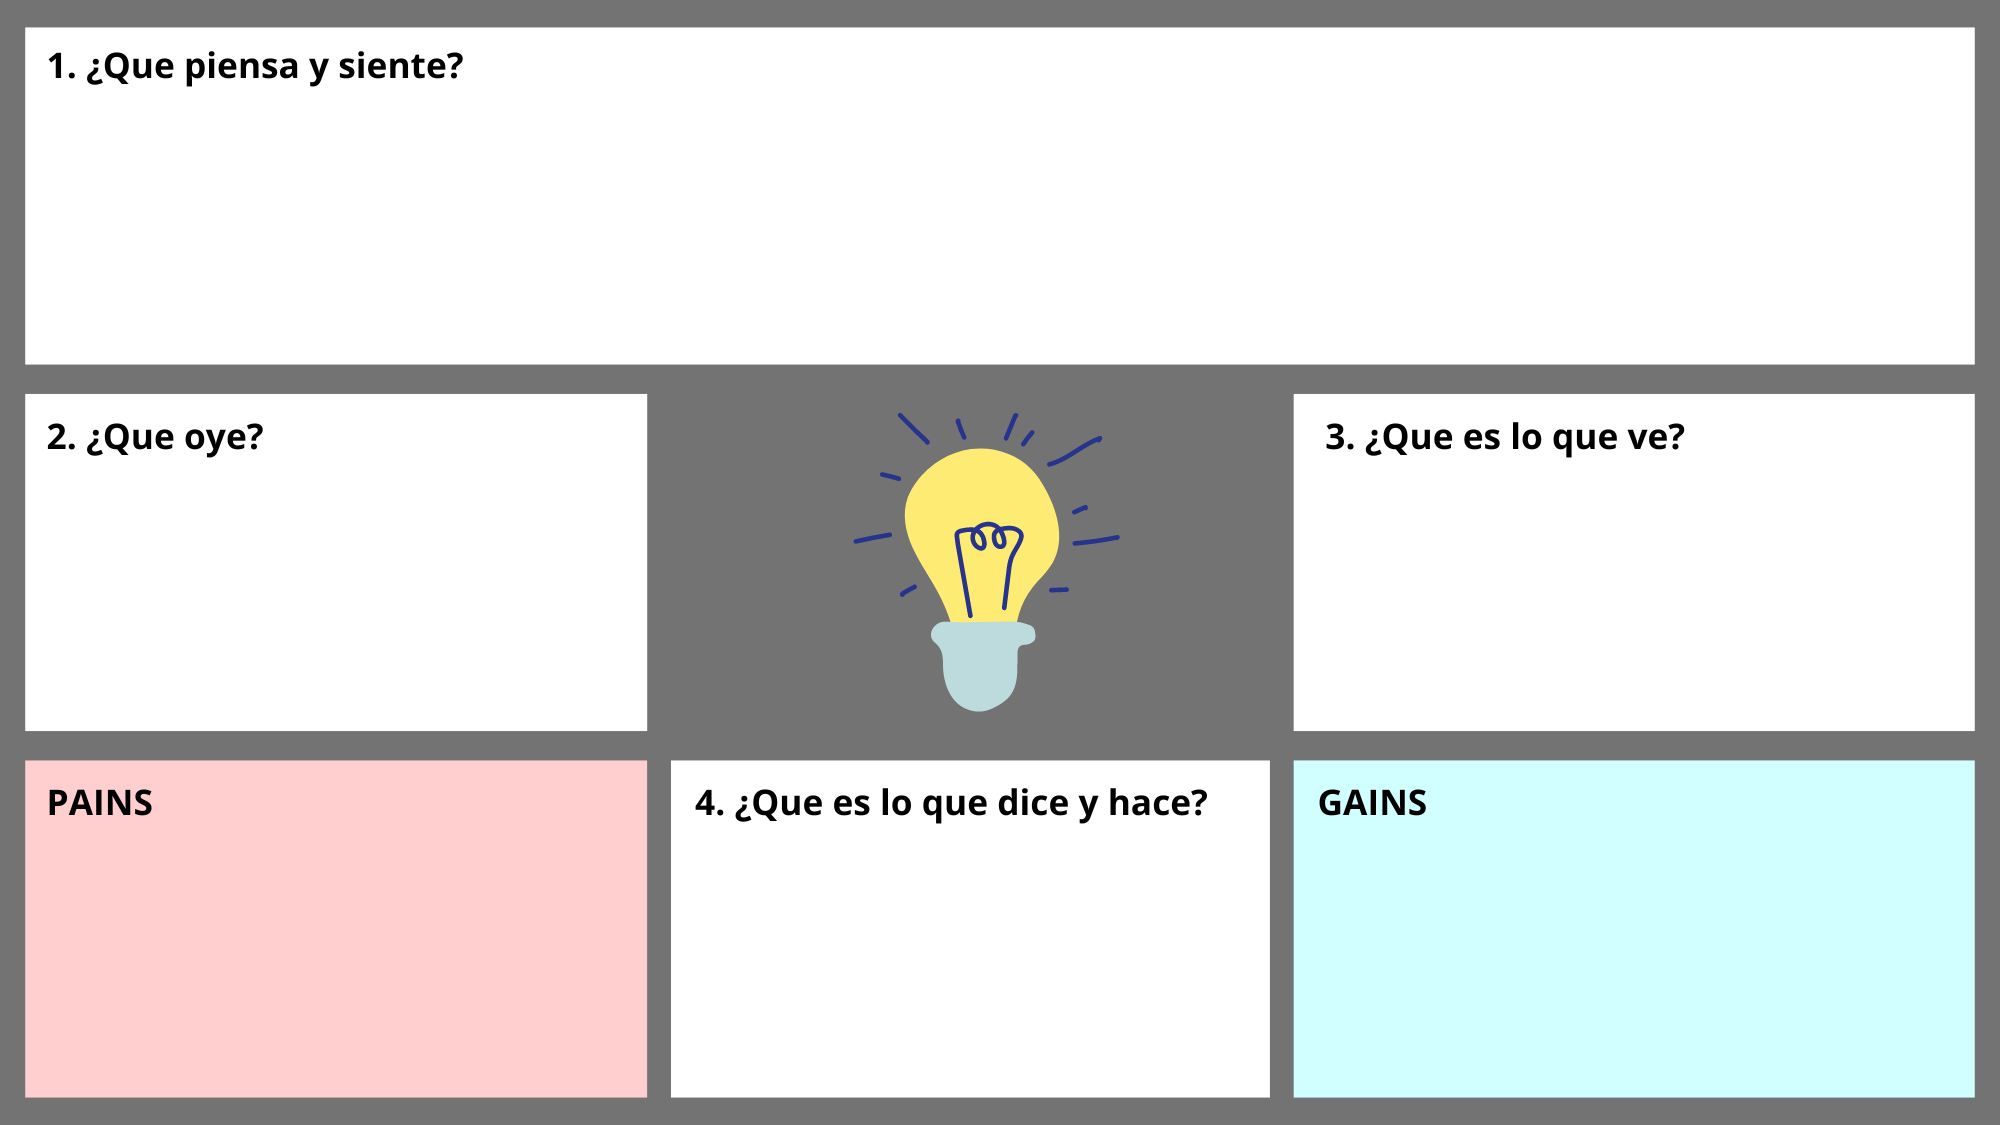
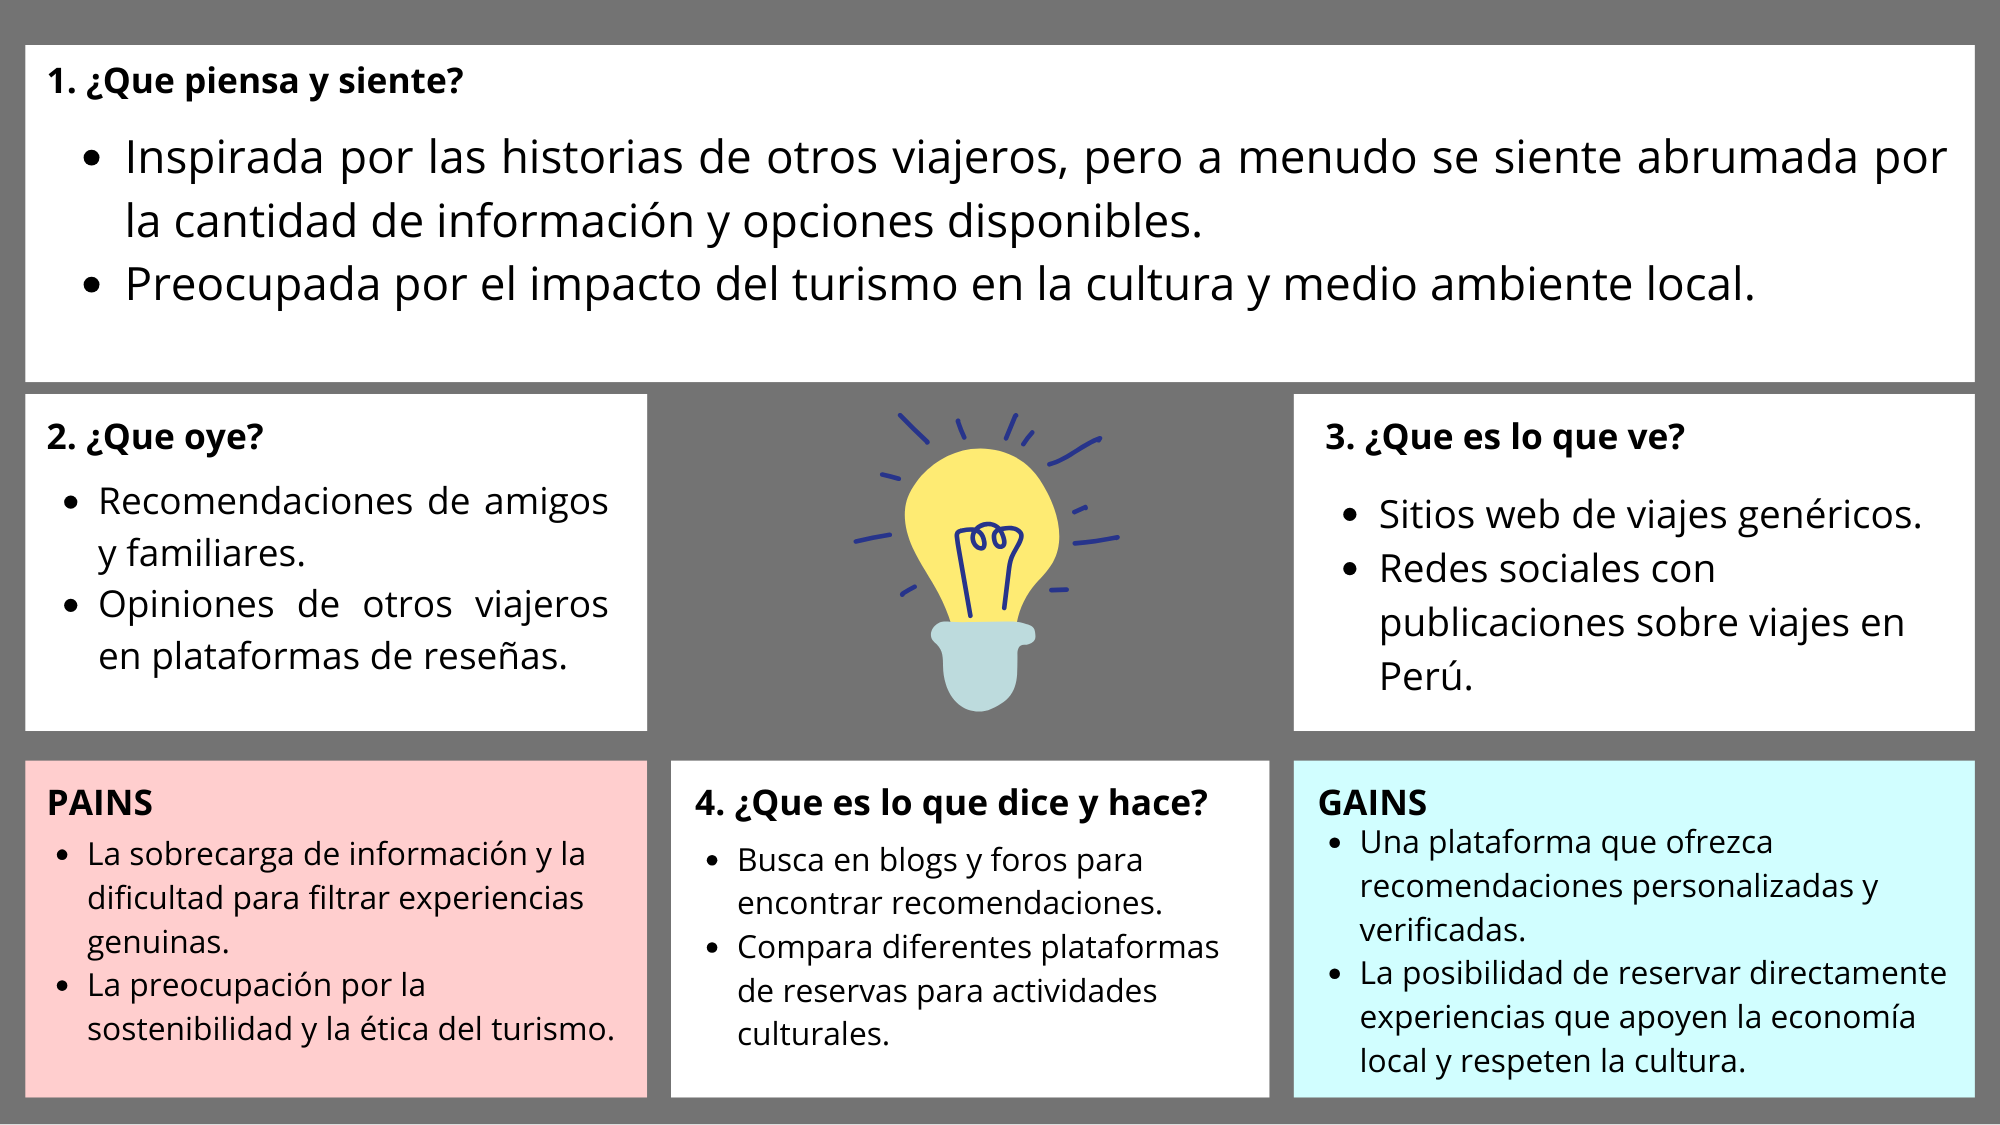
feat: capitulo 4 actualizado

diff --git a/README.md b/README.md
@@ -386,18 +386,19 @@ En esta sección, llevamos a cabo un análisis detallado de las entrevistas real
 Para cada segmento objetivo, se crearon cinco perfiles de usuario (user personas) con el propósito de obtener un profundo entendimiento del cliente potencial, identificar sus características comunes y comprender el contexto específico de la problemática que se busca resolver.
 
 ![user_persona_1](./resources-img/user-persona/userpersona1.png)
+![user_persona_2](./resources-img/user-persona/userpersona2.png)
 
 ### <span id="232-user-task-matrix">2.3.2. User Task Matrix.</span>
 
-| USER TASK        | Segmento: Turista               | Segmento: Turista                | Segmento: Dueño de local         | Segmento: Dueño de local         |
-|------------------|---------------------------------|----------------------------------|----------------------------------|----------------------------------|
-| Buscar proveedor |                                 |                                  |                                  |                                  |
-| Buscar clientes  |                                 |                                  |                                  |                                  |
-| Preguntar por contactos/recomendaciones |          |                                  |                                  |                                  |
-| Publicar o buscar servicios en redes sociales/internet |                              |                                  |                                  |
-| Publicar o buscar servicios en revistas o periódicos |                                |                                  |                                  |
-| Contactar con el proveedor en caso de algún producto en mal estado |                  |                                  |                                  |
-| Contactar con el posible cliente de manera online/presencial y firmar un contrato |   |                                  |                                  |  
+| USER TASK        | Segmento: Turista (Frecuencia)                    | Segmento: Turista (Importancia) | Segmento: Dueño de local (Frecuencia)    | Segmento: Dueño de local (Importancia) |
+|------------------|-------------------------------------------------- |---------------------------------|------------------------------------------|----------------------------------------|
+| Buscar experiencias auténticas |            Siempre                  |        Alto                     |           Siempre                        |             Alto                       |
+| Reservar actividades culturales  |    A menudo                       |        Alto                     |           Siempre                        |             Alto                       | 
+| Leer reseñas de otros viajeros |        Generalmente                 |        Alto                     |           Generalmente                   |             Alto                       |
+| Publicar o buscar información en redes sociales/internet |   Siempre |        Alto                     |           A menudo                       |             Alto                       |
+| Contactar con comunidades locales |       A veces                    |        Medio                    |           A menudo                       |             Alto                       |
+| Planificar itinerarios sostenibles |      A menudo                   |        Alto                     |           Siempre                        |             Alto                       |
+| Recibir recomendaciones personalizadas |   A menudo                  |        Alto                     |           A veces                        |             Medio                      |
 
 ### <span id="233-user-journey-mapping">2.3.3. User Journey Mapping.</span>
 
@@ -409,7 +410,7 @@ En esta sección, detallamos el recorrido integral de nuestro segmento objetivo,
 
 #### Segmento Dueño de Local:
 
-![user_journey_persona1](./resources-img/user-journey-map/user-journey-persona1.png)
+![user_journey_persona1](./resources-img/user-journey-map/user-journey-persona2.png)
 
 
 ### <span id="234-empathy-mapping">2.3.4. Empathy Mapping.</span>
@@ -422,7 +423,7 @@ Se desarrollaron mapas de empatía para cada uno de nuestros segmentos objetivos
 
 #### Segmento Dueño de Local:
 
-![empathy_persona_1](./resources-img/empathy-map/empathypersona1.png)
+![empathy_persona_1](./resources-img/empathy-map/empathypersona2.png)
 
 
 ### <span id="235-as-is-scenario-mapping">2.3.5. As-is Scenario Mapping.</span>
@@ -433,13 +434,26 @@ Se desarrollaron mapas de empatía para cada uno de nuestros segmentos objetivos
 
 #### Segmento Dueño de Local:
 
-![empathy_persona_1](./resources-img/as-is-scenario-mapping/scenario-mapping1.jpg)
+![empathy_persona_1](./resources-img/as-is-scenario-mapping/scenario-mapping2.jpg)
 
 
 
 En esta parte, mostramos un resumen de lo que hemos encontrado. Hacemos un mapa de cómo están las cosas ahora para nuestro grupo objetivo. Esto incluye una tabla que explica qué están haciendo, cómo lo hacen, qué piensan mientras lo hacen y cómo se sienten.
 
 ### <span id="24-ubiquitous-language">2.4. Ubiquitous Language.</span>
+
+El "Ubiquitous Language" es el  lenguaje común que es utilizado y entendido por todos los participantes de un proyecto, desde el equipo de desarrollo hasta los stakeholders y usuarios finales. Es crucial para la metodología de desarrollo de software Domain-Driven Design (DDD), ya que asegura que todos comprendan los términos y conceptos de la misma manera.
+
+Viajero Auténtico: Un turista que busca experiencias culturales genuinas más allá de las atracciones principales.
+Cultura Local: Tradiciones, arte, artesanías y conocimientos de las comunidades dentro de las regiones de Perú que son de interés para los viajeros auténticos.
+Experiencia Auténtica: Una actividad turística que permite a los viajeros una inmersión significativa en la cultura y tradiciones locales.
+Socio Local: Una tienda, artesano o institución cultural que ofrece productos o experiencias culturales a los viajeros.
+Plataforma de Conexión: El producto de software (aplicación web o móvil) que conecta viajeros con experiencias auténticas.
+Reserva Cultural: Un sistema para que los viajeros reserven y paguen por experiencias culturales a través de la Plataforma de Conexión.
+Sostenibilidad Turística: Una forma de turismo en la que tanto los viajeros como las comunidades locales se benefician equitativamente, sin sacrificar el patrimonio cultural o natural.
+Recomendación Personalizada: Una función de la plataforma que sugiere experiencias basadas en las preferencias e intereses del viajero.
+Soporte Continuo: Servicios de mantenimiento y asistencia técnica para asegurar el funcionamiento óptimo de la Plataforma de Conexión.
+Escala: La capacidad de la Plataforma de Conexión para manejar un número creciente de transacciones y usuarios sin comprometer el rendimiento.
 
 # <span id="capítulo-iii-requirements-specification">Capítulo III: Requirements Specification</span>
 
@@ -1157,11 +1171,31 @@ Entonces la aplicación ofrece la opción de reservar alojamiento directamente d
 
 ### <span id="46-domain-driven-software-architecture">4.6. Domain-Driven Software Architecture.</span>
 
+En esta parte se mostrara tres niveles del modelo C4 para proporcionar una visión más clara y enfocada del desarrollo de la aplicacion en curso.
+
 ### <span id="461-software-architecture-context-diagram">4.6.1. Software Architecture Context Diagram.</span>
+
+Nuestro diagrama de contexto muestra las interacciones clave de PeruVentura, estableciendo relaciones fundamentales con 
+sus principales grupos de usuarios: turistas y propietarios de establecimientos. Además, se destaca su conexión con dos 
+sistemas externos para su funcionamiento. El primero, el sistema 'Workshop System', almacena información detallada 
+sobre los talleres. El segundo, denominado 'Workshop Recommendation System', se encarga de sugerir talleres a los turistas
+basándose en sus preferencias personales, utilizando para ello los datos recopilados en el primer sistema mencionado.
+
+![context-diagram](./resources-img/context-diagram.png)
+
 
 ### <span id="462-software-architecture-container-diagrams">4.6.2. Software Architecture Container Diagrams.</span>
 
+El diagrama revela la estructura del proyecto, destacando la conexión entre la aplicación web, con el landing page. El dueño de local/turista hace una interacción se realiza a través de peticiones API que permiten el registro o la búsqueda de talleres, subrayando la funcionalidad clave dentro del esquema de arquitectura de contenedores.
+
+![container-diagram](./resources-img/container-diagram.png)
+
+
 ### <span id="463-software-architecture-components-diagrams">4.6.3. Software Architecture Components Diagrams.</span>
+
+Este diagrama detalla los componentes de software implicados en las operaciones realizadas tanto por los propietarios de talleres como por los usuarios. Ilustra cómo se procesan las solicitudes para buscar y publicar talleres, mostrando las interacciones y flujos de datos entre los diferentes componentes del sistema.
+
+![container-diagram](./resources-img/container-diagram.png)
 
 ### <span id="47-software-object-oriented-design">4.7. Software Object-Oriented Design.</span>
 
